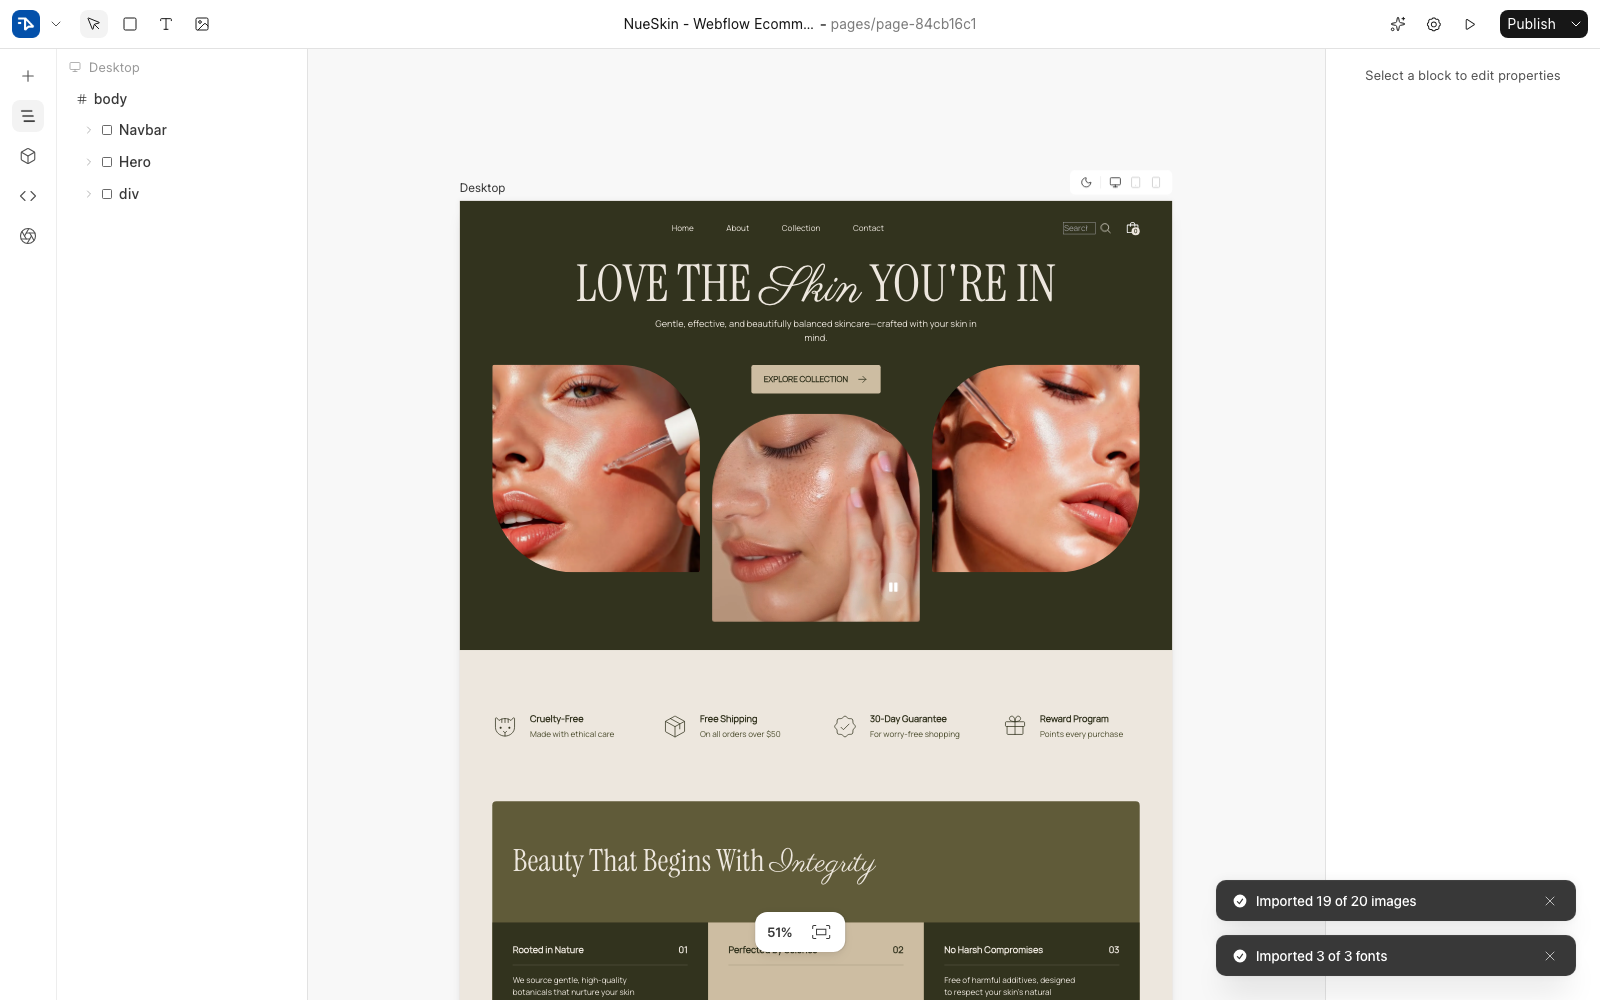
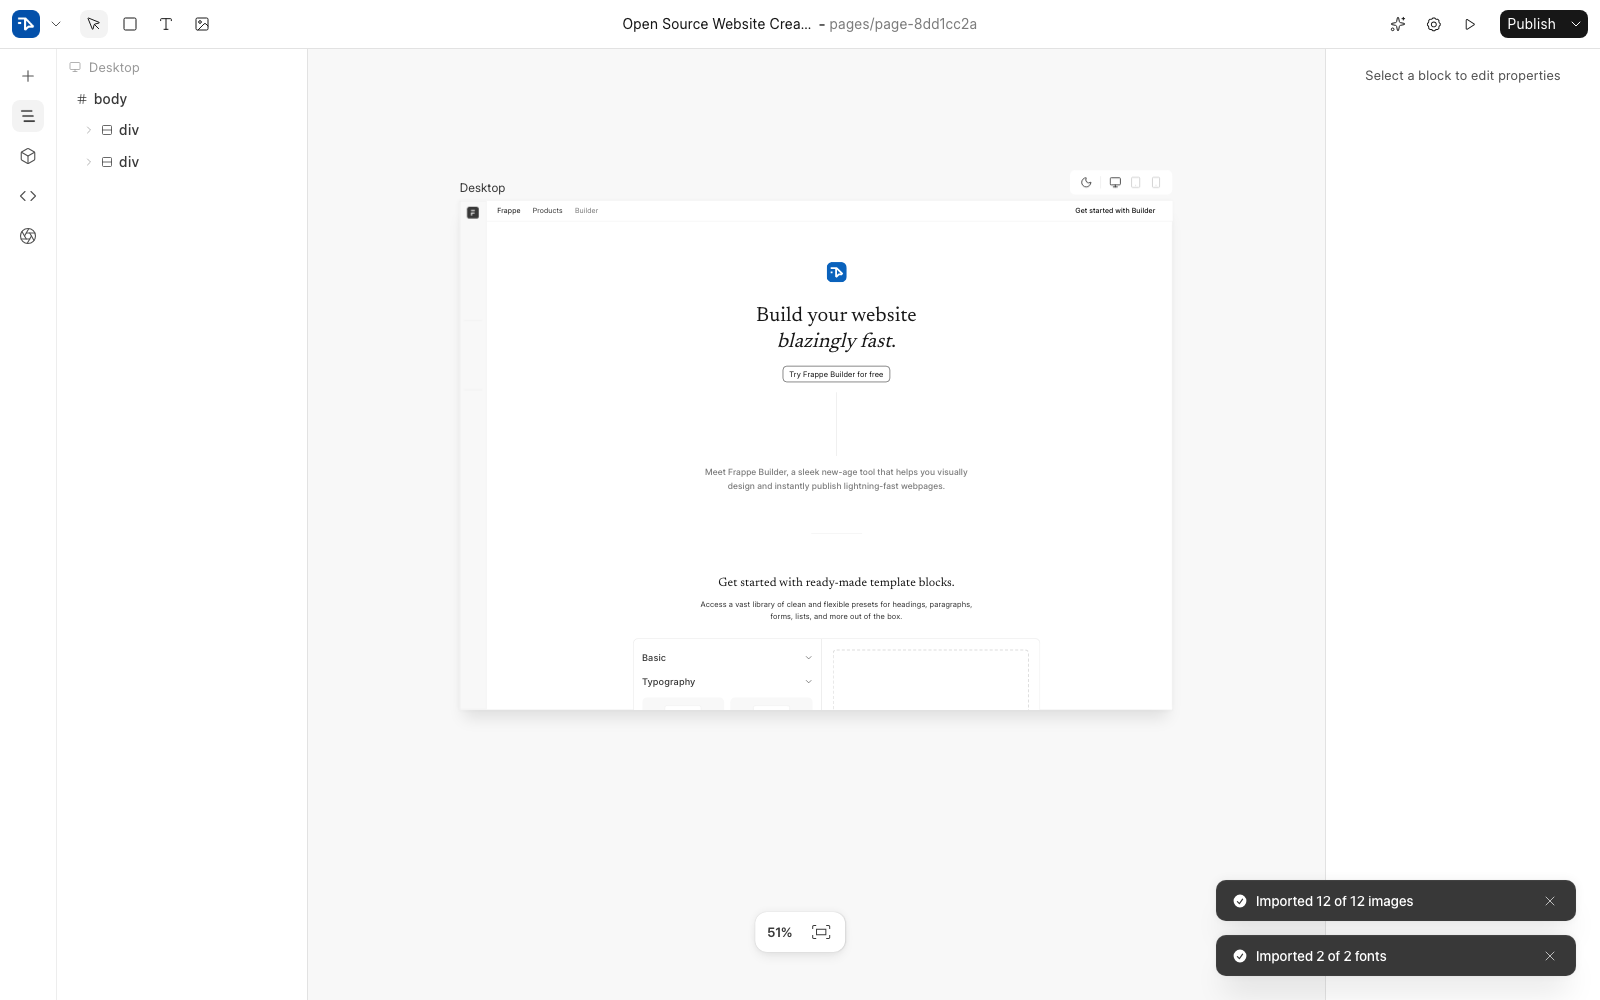
docs: demo with our own site, drop the comparison
The screenshot now shows frappe.io/builder pasted as blocks, imports
done. The Webflow template made a striking comparison but its photos
and design are licensed work, which is not worth the demo.

diff --git a/README.md b/README.md
@@ -3,14 +3,7 @@
 A Chrome extension that copies any web page, or any single element on it, and pastes it
 into Frappe Builder as native, editable blocks.
 
-![A copied page open as editable blocks in Frappe Builder](docs/pasted-into-builder.png)
-
-A page copied from [a Webflow template](https://nueskin.webflow.io/) and published from
-Builder, next to the original:
-
-| The original site                     | The copy, published from Builder        |
-| ------------------------------------- | --------------------------------------- |
-| ![Original site](docs/original-site.png) | ![Published copy](docs/published-copy.png) |
+![The frappe.io/builder page, copied and open as editable blocks in Frappe Builder](docs/pasted-into-builder.png)
 
 Nothing is exported or uploaded. The page is converted in the tab you are looking at and
 written to the clipboard under the same custom type Builder's own copy uses
